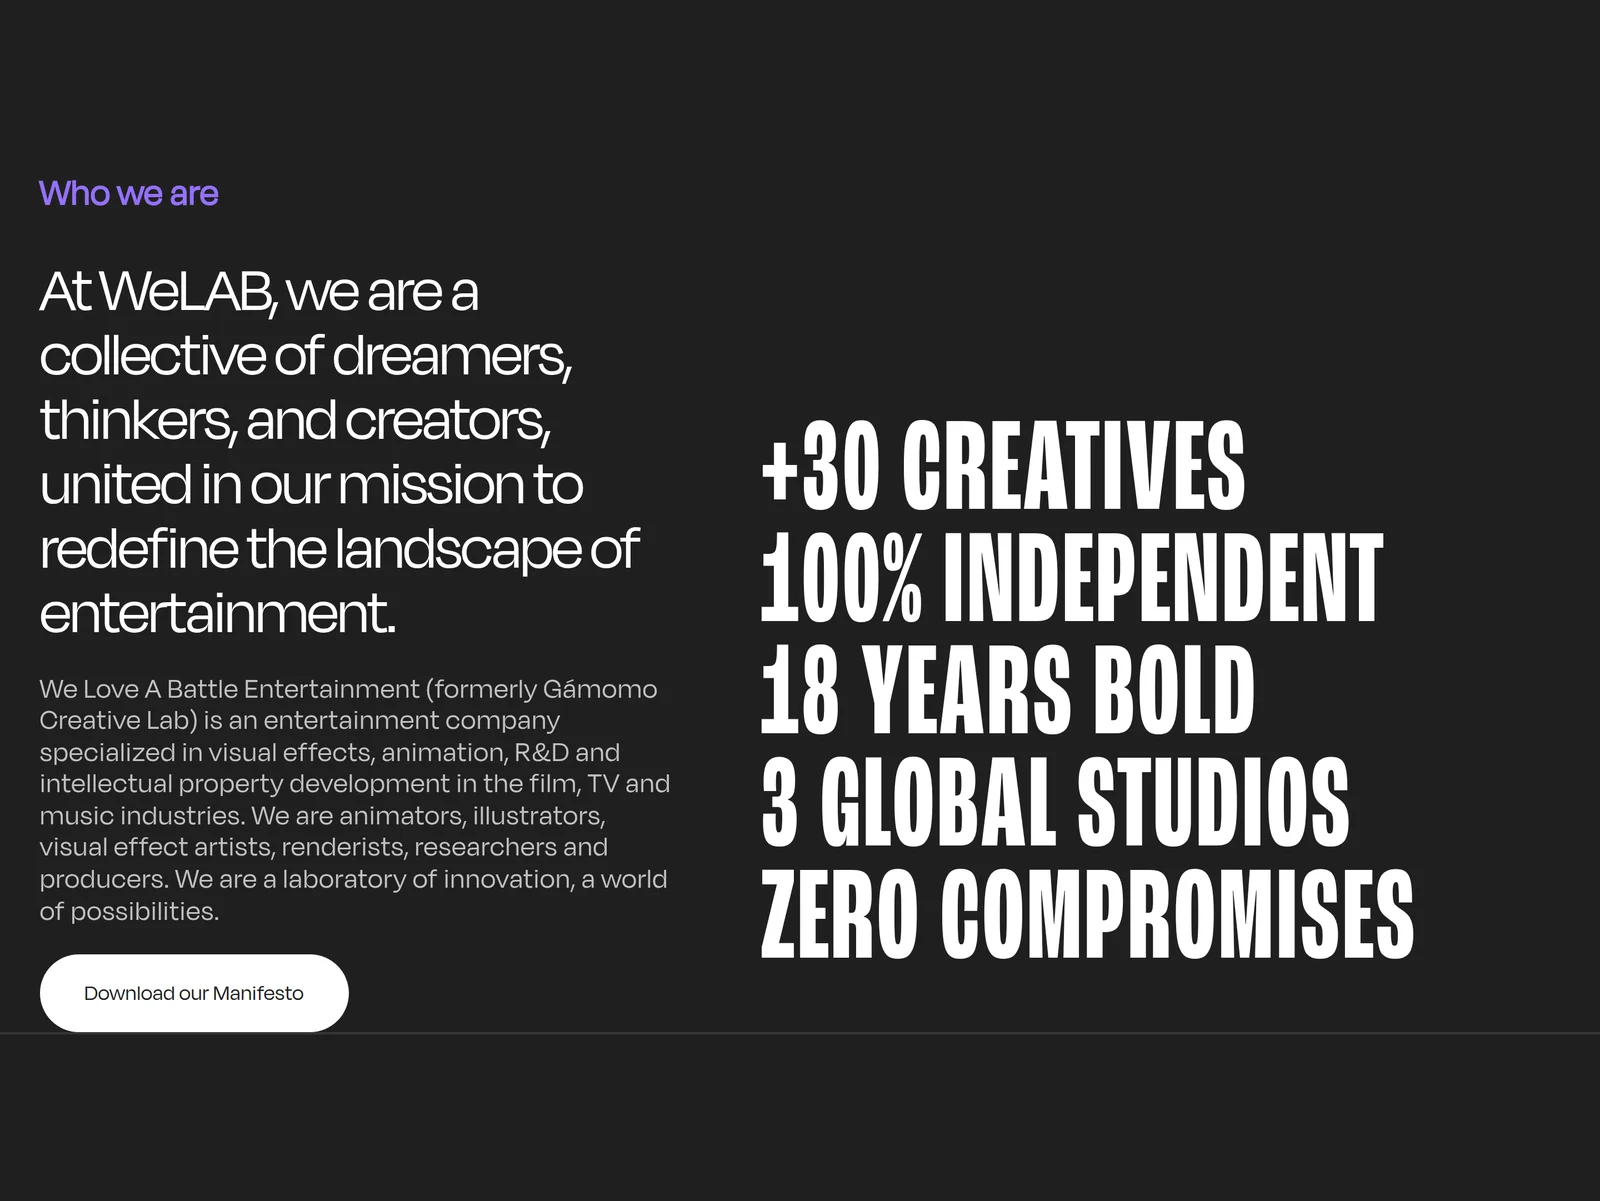
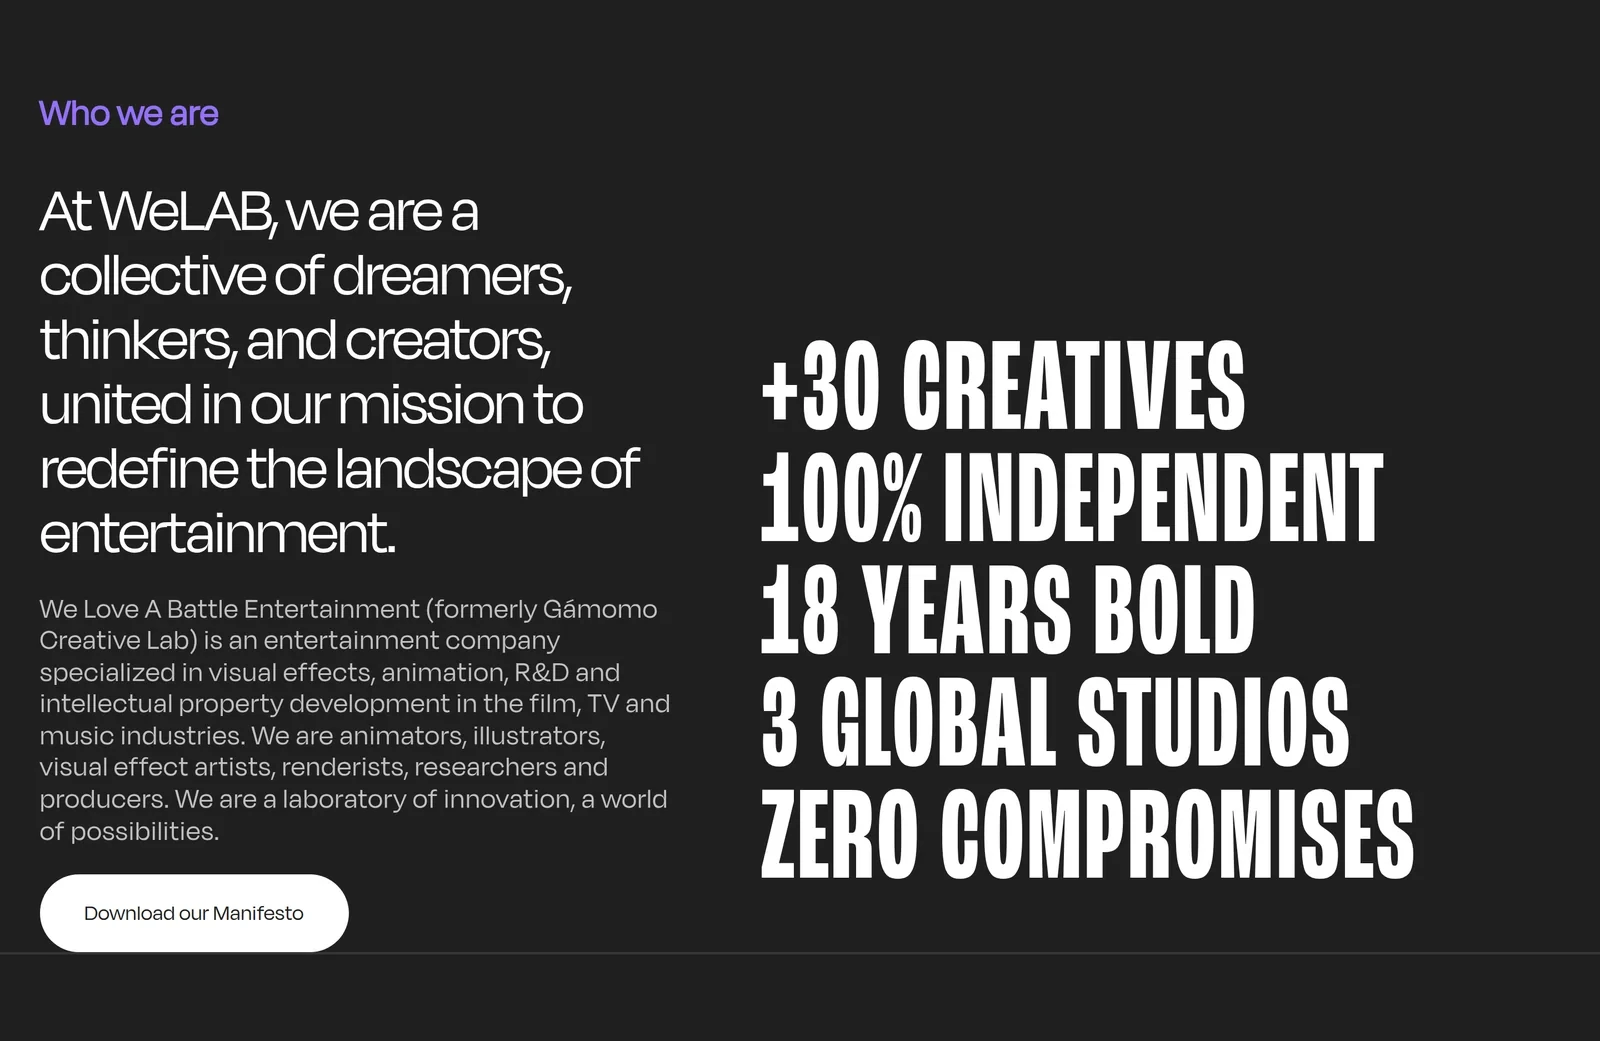
assets: crop the dead space above and below the Who We Are captures

Changed region(s): [[0.0, 0.1537, 0.4375, 0.9222], [0.4688, 0.3074, 0.9062, 0.8607], [0.0, 0.0922, 0.1562, 0.123]]

diff --git a/site/src/components/WeLabFigures.jsx b/site/src/components/WeLabFigures.jsx
@@ -61,8 +61,8 @@ export function WLOldShowcaseFigure() {
 
 /* The audit and before/after figures all share ONE image height so the
    case study reads evenly, row to row. Each cell's width is its aspect
-   ratio over a shared reference (2.852 — the widest before/after row's
-   total AR), so every image resolves to the same height — (columnWidth −
+   ratio over a shared reference (2.852 — as much as the widest row on this
+   scale can spend), so every image resolves to the same height — (columnWidth −
    20px) / 2.852 — at any screen width, and no row overflows or wraps.
    Rows just stop short of the full column width, which is fine.
    Full-page portrait pairs, the EN/ES pair, and the five-across Figma grid
@@ -79,7 +79,7 @@ const AUDIT_TAX_ROW = [
 ];
 
 const AUDIT_SECTIONS_ROW = [
-  { src: auditWhoWeAre, ar: 1.332, w: UNIF(1.332), label: "Who We Are", alt: "The Who We Are section of the old About Us page — the studio's collective statement beside oversized stat lines" },
+  { src: auditWhoWeAre, ar: 1.537, w: UNIF(1.537), label: "Who We Are", alt: "The Who We Are section of the old About Us page — the studio's collective statement beside oversized stat lines" },
   { src: auditClients, ar: 0.849, w: UNIF(0.849), label: "Clients & Awards", alt: "The Our Clients section of the old About Us page — a logo wall under the Amazing Battles, Amazed Clients headline" },
   { src: auditHomeFooter, ar: 0.46, w: UNIF(0.46), label: "Home footer — mobile", alt: "The old home page footer on a phone — Light the Fire Within headline, contact button, social icons, and the WeLAB wordmark" },
 ];
@@ -154,9 +154,14 @@ const LAYOUT_ROWS = [
     { src: taxNewDesktop, ar: 1.794, w: "calc((100% - 100px) * 0.4824)", ba: "after", label: "Tax Credits — after, desktop", alt: "The rebuilt Tax Credits section on desktop — Vancouver, Calgary, and Guadalajara incentive cards holding three even columns" },
     { src: taxNewMobile, ar: 0.371, w: "calc((100% - 100px) * 0.0998)", ba: "after", label: "Tax Credits — after, mobile", alt: "The rebuilt Tax Credits section on a phone — the incentive cards stacked in one clean column" },
   ],
+  /* both captures are cropped tight to the section, so this pair's shapes
+     add up past the shared reference: like the tax row it takes its own
+     total (3.329) and renders a shorter box. The sections inside still come
+     out the size they were before the crop — only the empty band above and
+     below each one is gone. */
   [
-    { src: auditWhoWeAre, ar: 1.332, w: UNIF(1.332), label: "Who We Are — before", ba: "before", alt: "The Who We Are section of the old About Us page — the studio's collective statement beside oversized stat lines" },
-    { src: afterWhoWeAre, ar: 1.519, w: UNIF(1.519), ba: "after", label: "Who We Are — after", alt: "The rebuilt Who We Are section — the statement, supporting copy, and stat lines aligned on one grid" },
+    { src: auditWhoWeAre, ar: 1.537, w: "calc((100% - 60px) * 0.4617)", label: "Who We Are — before", ba: "before", alt: "The Who We Are section of the old About Us page — the studio's collective statement beside oversized stat lines" },
+    { src: afterWhoWeAre, ar: 1.792, w: "calc((100% - 60px) * 0.5383)", ba: "after", label: "Who We Are — after", alt: "The rebuilt Who We Are section — the statement, supporting copy, and stat lines aligned on one grid" },
   ],
   [
     { src: footerBaBefore, ar: 0.59, w: UNIF(0.59), ba: "before", label: "Home footer — before", alt: "The old home page footer on a phone — social icons spilling onto a second row under the Contact Us button" },
